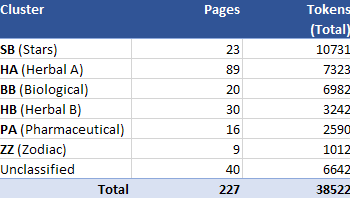
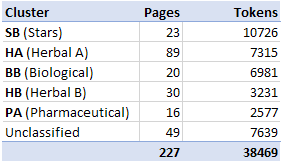
Changes while writing new note.

diff --git a/docs/003/index.md b/docs/003/index.md
@@ -1,6 +1,6 @@
 ## Note 003 - Clustering
 
-_Last updated Jan. 9th, 2022._
+_Last updated Mar. 20th, 2022._
 
 _This note refers to [release v.3.0.0](https://github.com/mzattera/v4j/tree/v.3.0.0) of v4j;
 **links to classes and files refer to this release** and files might have been changed, deleted or moved in the current master branch.
@@ -223,7 +223,7 @@ This is more evident when clustering whole parchments instead of single pages.
   - **Biological** and **Stars** pages form two close, albeit separate, groups.
   
   - The grouping behavior of remaining pages (**Astronomical**, **Text**, **Zodiac** and **Cosmological**)
-  is more difficult to assess. However, **Zodiac** pages seem to show some internal consistency and a similarity with **Herbal B**.
+  is more difficult to assess.
 
 - It has been already proposed (_citation needed_) that these similarities are either a proof that the Voynich is not an hoax
 as the vocabulary used in its page correlates with the page "topics" that can be inferred by the illustration type
@@ -236,7 +236,7 @@ Currier's languages reflect language differences in the underlying plain text.
 - As the above grouping reflects a similar distribution of terms in the text, no matter what was the cause,
 these differences should be kept in mind when performing statistical analysis of the text or when trying to decipher it.
 
-  For this reason, v4j library provides means to classify pages accordingly to above considerations, the resulting clusters are shown below
+  For this reason, v4j library provides means to classify pages accordingly to above considerations, the resulting clusters are shown below[{5}](#Note5)
   (also see [`PageHeader`](https://github.com/mzattera/v4j/blob/v.3.0.0/eclipse/io.github.mattera.v4j/src/main/java/io/github/mattera/v4j/text/ivtff/PageHeader.java) class).
  
   ![Cluster size in words](images/Clusters.PNG)
@@ -265,6 +265,9 @@ performs K-Means clustering and prints out a report that can be easily converted
 The class can be parameterized to run different types of experiments; its outputs, with some additional data,
 can be found as Excel files in the [analysis folder](https://github.com/mzattera/v4j/tree/master/resources/analysis).
 Keep in mind K-Means algorithm include some randomness, therefore slightly different clustering might result at each experiment.
+
+<a id="Note5">**{5}**</a> After publishing [note 009](../009), I decided to remove the zodiac pages (former "ZZ" cluster) from this list of clusters,
+since there is no much evidence their cluster is better formed than Cosmological or Astronomical ones.
  
 ---
 

diff --git a/docs/007/index.md b/docs/007/index.md
@@ -23,7 +23,9 @@ _Please refer to the [home page](..) for a set of definitions that might be rele
 
 # Abstract
 
-In this note, I create and analyze a graph showing connections between characters in Voynich terms accordingly to my [slot model](../005) [{1}](#Note1).
+In this note, I create and analyze a graph showing connections between characters in Voynich terms accordingly to my [slot model](../005) [{1}](#Note1);
+unless differently mentioned, the Slot alphabet is used.
+
  
 
 # Methodology
@@ -196,6 +198,10 @@ a position in a Voynich word can be filled only by a smaller set of symbols, thi
 
 In addition, it is clear that characters have a different role based on the slot they appear; so 
 'o' in slot 1 (1_o) has not the same "meaning" or "function" than the same character in slot 8 (8_o).
+
+Finally, the letter 'o' in slot 1 seems to connect to far more other characters than other letters.
+This might suggest some special role of 'o', which is also hinted in Cham's article about 
+his [Curve-Line System](../006) (CLS). 
 	
 ---
 

diff --git a/docs/004/index.md b/docs/004/index.md
@@ -39,8 +39,7 @@ It might be interesting to note that:
 
 - Herbal B pages (HB cluster) prefer terms starting with 'qo-' and 'qok-'.
 
-- Zodiac (ZZ cluster) common terms mostly start with 'ot-', this is uncommon for other clusters. Moreover, this cluster
-features single characters as common terms.
+- Zodiac (ZZ) common terms mostly start with 'ot-', this is uncommon for clusters above. Moreover, these pages feature single characters as common terms.
 
 
 ---
